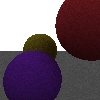
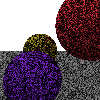
refactored scene into class

diff --git a/src/scene.py b/src/scene.py
@@ -17,72 +17,74 @@ def random_direction(normal):
     else:
         return -1*unit_random_vector
 
-# this needs refactoring
-def ray_trace(origin, ray, scene):
+class Scene(object):
+    def __init__(self, props):
+        self.props = props
 
-    ray = ray.normalize()
+    def ray_trace(self, origin, direction):
+        direction = direction.normalize()
 
-    distances = []
-    intersections = []
+        distances = []
+        intersections = []
 
-    for prop in scene:
-        prop_intersection = prop.find_intersection(origin, ray)
-        intersections.append(prop_intersection)
+        for prop in self.props:
+            prop_intersection = prop.find_intersection(origin, direction)
+            intersections.append(prop_intersection)
 
-        if prop_intersection is None:
-            distance_from_prop = float("inf")  
-        else:
-            distance_from_prop = (prop_intersection-origin).norm()
+            if prop_intersection is None:
+                distance_from_prop = float("inf")  
+            else:
+                distance_from_prop = (prop_intersection-origin).norm()
 
-        distances.append(distance_from_prop)
+            distances.append(distance_from_prop)
 
-    if all(intersection is None for intersection in intersections):
-        return black
+        if all(intersection is None for intersection in intersections):
+            return black
 
-    else: 
-        index_closest_prop = np.argmin(distances)
-        closest_prop = scene[index_closest_prop]
+        else: 
+            index_closest_prop = np.argmin(distances)
+            closest_prop = self.props[index_closest_prop]
 
-        if isinstance(closest_prop, Light):
-            normal = closest_prop.find_normal(prop_intersection)
-            return closest_prop.color
+            if isinstance(closest_prop, Light):
+                normal = closest_prop.find_normal(prop_intersection)
+                return closest_prop.color
 
-        else:
-            closest_intersection = intersections[index_closest_prop]
+            else:
+                closest_intersection = intersections[index_closest_prop]
 
-            albedo = closest_prop.albedo
-            normal = closest_prop.find_normal(closest_intersection)
+                albedo = closest_prop.albedo
+                normal = closest_prop.find_normal(closest_intersection)
 
-            new_origin = closest_intersection
-            reflected_ray = random_direction(normal)
+                new_origin = closest_intersection
+                reflected_ray = random_direction(normal)
 
-            lambertian = reflected_ray.inner(normal)
+                lambertian = reflected_ray.inner(normal)
 
-            epsilon = 1
+                epsilon = 1
 
-            return lambertian*albedo.compwise_mult(ray_trace(new_origin + (epsilon*reflected_ray), reflected_ray, scene))
+                return lambertian*albedo.compwise_mult(self.ray_trace(new_origin + (epsilon*reflected_ray), reflected_ray))
 
-def shoot_rays(scene, screen_width, screen_height, screen_depth, iteration_by_pixel):
-    screen = initialize_screen(screen_width, screen_height)
-    screen_center = find_screen_center(screen_width, screen_height, screen_depth)
+    def shoot_rays(self, screen_width, screen_height, screen_depth, iteration_by_pixel):
+        screen = initialize_screen(screen_width, screen_height)
+        screen_center = find_screen_center(screen_width, screen_height, screen_depth)
 
-    for i in range(screen_width):
-        for j in range(screen_height):
-            relative_position = vect(i,-j,0)
-            absolute_position = find_absolute_screen_position(relative_position, screen_center)
-            ray = absolute_position
-            sum_of_colors = vect(0,0,0)
-            total_intensity = 0
+        for i in range(screen_width):
+            for j in range(screen_height):
+                relative_position = vect(i,-j,0)
+                absolute_position = find_absolute_screen_position(relative_position, screen_center)
+                direction = absolute_position
+                sum_of_colors = vect(0,0,0)
+                total_intensity = 0
 
-            for k in range(iteration_by_pixel):
-                color = ray_trace(absolute_position, ray, scene)
-                sum_of_colors += color
+                for k in range(iteration_by_pixel):
+                    color = self.ray_trace(absolute_position, direction)
+                    sum_of_colors += color
 
-            average_color = sum_of_colors/iteration_by_pixel
-            
-            write_screen_pixel(screen, relative_position, average_color) 
-    
-    display_image(screen)
+                average_color = sum_of_colors/iteration_by_pixel
+                
+                write_screen_pixel(screen, relative_position, average_color) 
+        
+        display_image(screen)
 
 
 

diff --git a/display_scene.py b/display_scene.py
@@ -6,18 +6,18 @@ from src.colors import *
 from src.props.solids import Sphere 
 from src.props.lights import Sky 
 from src.props.walls import Floor 
-from src.scene import shoot_rays 
+from src.scene import Scene 
 
 sky = Sky(white,1000)
 sphere = Sphere(center=vect(-30,0,300),radius=50, albedo = 1*vect(255, 235, 49))
 sphere2 = Sphere(center=vect(80,50,200),radius=70, albedo = 1*vect(255, 61, 73))
 sphere3 = Sphere(center=vect(-30,-50,180),radius=50, albedo = 1*vect(142, 44, 232))
 floor = Floor(-500, albedo=(0.9*white))
-scene_objects = [sky, sphere, sphere2, sphere3, floor]
+scene = Scene([sky, sphere, sphere2, sphere3, floor])
 resolution = (100,100) #in pixels
 depth = 100 #in pixels
 iteration_by_pixel = 1 
 
-shoot_rays(scene_objects, resolution[0], resolution[1], depth, 100)
+scene.shoot_rays(resolution[0], resolution[1], depth, iteration_by_pixel)
 
 
